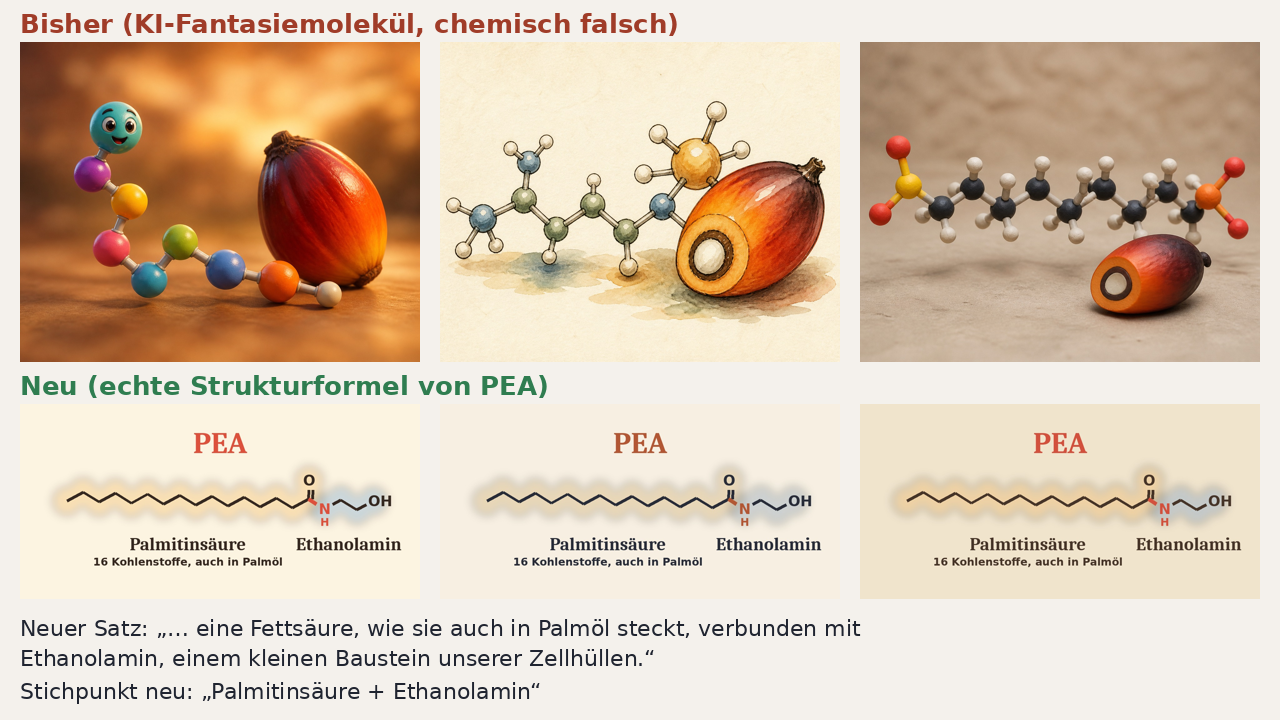
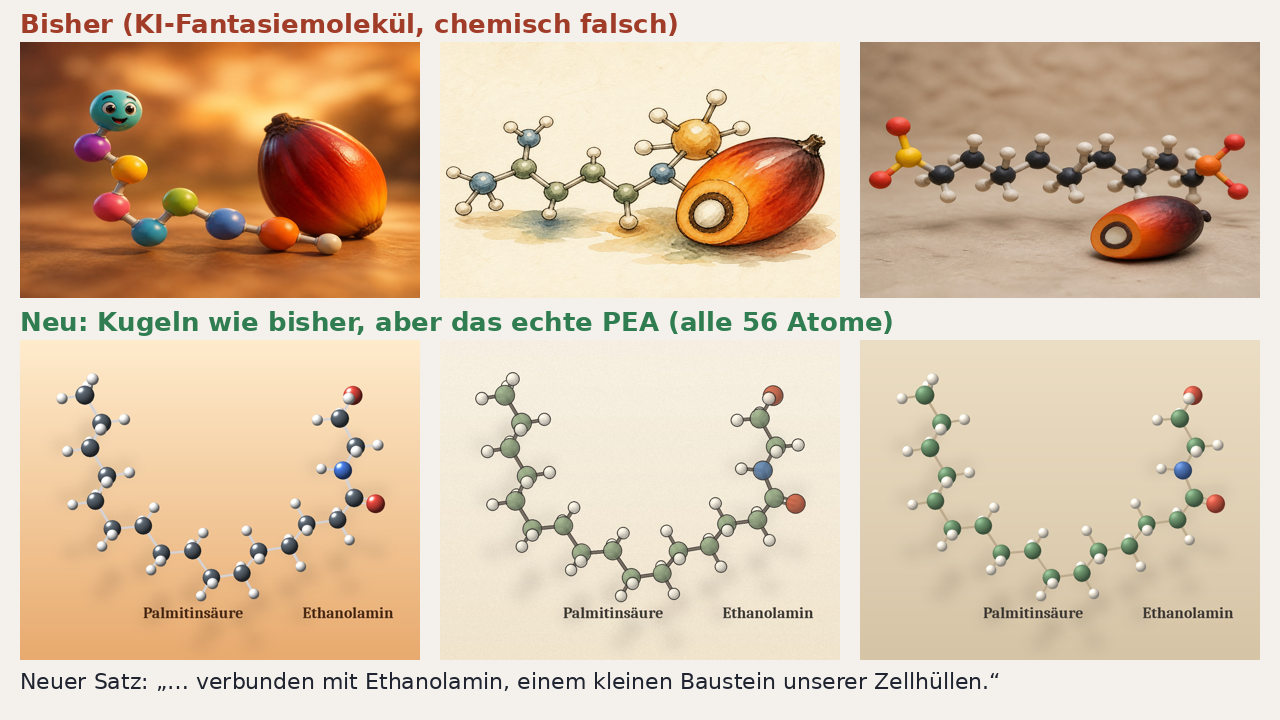
PEA: Kugel-Stab-Modell (kugeln_bau.py, echte 3D-Geometrie, U-Form) als Vorschlag für p2d
Claude-Session: https://claude.ai/code/session_01LHRCLor5LknBvfT6eafQzV

diff --git a/themen/pea/vorschau/index.html b/themen/pea/vorschau/index.html
@@ -38,12 +38,12 @@
 <main>
   <h1>PEA · Erklärvideo in drei Stilen · Vorschau</h1>
   <p class="aufgabe"><b>Deine Aufgabe:</b> Oben: Vorschlag zum Molekül im Kapitel „Der Stoff wird gefunden“ (1:21). „passt“ = Bild und Satz so ändern, dann rendere ich alle drei Stile neu. Ton kommt beim Antippen von ▶; nichts wird heruntergeladen.</p>
-  <article class="video" id="v1" data-id="v_7eebedb9b2" data-titel="Molekül-Bild 1:21: bisher und neu (Standbild)">
-      <div class="kopfzeile"><h2>Molekül-Bild 1:21: bisher und neu (Standbild)</h2><span class="marke pruefen">zu prüfen</span></div>
-      <p class="stand">Stand 11.11., 18:55 · 0.3 MB</p>
-      <video controls playsinline preload="metadata" poster="videos/v_7eebedb9b2.jpg" src="videos/v_7eebedb9b2.mp4"></video>
-      <p class="notiz">Deine Frage „Was für ein Baustein?“: Es ist Ethanolamin. PEA = Palmitinsäure (16 Kohlenstoffe) + Ethanolamin, verbunden über eine Amidbindung (rot). Die bisherigen KI-Bilder sind chemisch falsch (zu kurze Kette, drei Stickstoffe statt einem). Neu: echte Strukturformel, selbst gezeichnet. Dazu der Satz mit „Ethanolamin, einem kleinen Baustein unserer Zellhüllen“ (nur dieser Satz wird neu gesprochen und eingesetzt, wie bei der Pause nach „Spur“).</p>
-      <div class="urteil"><button type="button" data-u="passt">✓ passt</button><button type="button" data-u="aendern">ändern</button></div><textarea rows="2" placeholder="Was soll anders werden?" aria-label="Notiz zu Molekül-Bild 1:21: bisher und neu (Standbild)"></textarea><div class="zeile"><button type="button" class="senden">An Claude</button><span class="melde" role="status" aria-live="polite"></span></div>
+  <article class="video" id="v1" data-id="v_979286957e" data-titel="Molekül-Bild 1:21: bisher und neu mit Kugeln (Standbild)">
+      <div class="kopfzeile"><h2>Molekül-Bild 1:21: bisher und neu mit Kugeln (Standbild)</h2><span class="marke pruefen">zu prüfen</span></div>
+      <p class="stand">Stand 11.11., 19:20 · 0.3 MB</p>
+      <video controls playsinline preload="metadata" poster="videos/v_979286957e.jpg" src="videos/v_979286957e.mp4"></video>
+      <p class="notiz">Nach deiner Notiz: Kugeln und Stäbchen wie im alten Bild, ohne Palmfrucht, aber chemisch richtig. Echte 3D-Geometrie mit allen 56 Atomen: 16 Kohlenstoffe der Palmitinsäure (links), rot das Sauerstoff-Doppel, blau der eine Stickstoff, dann das Ethanolamin mit OH (oben rechts). Die Kette ist im Bild zum U gebogen, damit die Kugeln groß werden; das darf sie, sie ist in Wirklichkeit beweglich. Dazu der Satz mit „Ethanolamin, einem kleinen Baustein unserer Zellhüllen“. „passt“ = so einbauen.</p>
+      <div class="urteil"><button type="button" data-u="passt">✓ passt</button><button type="button" data-u="aendern">ändern</button></div><textarea rows="2" placeholder="Was soll anders werden?" aria-label="Notiz zu Molekül-Bild 1:21: bisher und neu mit Kugeln (Standbild)"></textarea><div class="zeile"><button type="button" class="senden">An Claude</button><span class="melde" role="status" aria-live="polite"></span></div>
     </article><article class="video" id="v2" data-id="v_89fd124051" data-titel="I  3D-Trickfilm">
       <div class="kopfzeile"><h2>I  3D-Trickfilm</h2><span class="marke info">zur Info</span></div>
       <p class="stand">Stand 10.11., 01:05 · 15.4 MB</p>

diff --git a/themen/pea/kugeln_bau.py b/themen/pea/kugeln_bau.py
@@ -1,0 +1,110 @@
+"""PEA als Kugel-Stab-Modell (Nutzerwunsch 11.11.: Kugeln wie im alten Bild, aber chemisch richtig, ohne Palmfrucht).
+Echte 3D-Geometrie (RDKit, Kette gestreckt), alle 56 Atome (18 C, 37 H, 1 N, 2 O), Kugeln je Stil schattiert.
+Ausgabe: molekuel/p2d_kugeln_<Stil>.jpg (1280x1024). Aufruf: python3 kugeln_bau.py"""
+import os, math, random
+import numpy as np
+from rdkit import Chem
+from rdkit.Chem import AllChem, rdMolTransforms as T
+from PIL import Image, ImageDraw, ImageFilter, ImageFont
+HIER = os.path.dirname(os.path.abspath(__file__))
+m = Chem.AddHs(Chem.MolFromSmiles('CCCCCCCCCCCCCCCC(=O)NCCO'))
+AllChem.EmbedMolecule(m, randomSeed=7); AllChem.MMFFOptimizeMolecule(m)
+c = m.GetConformer()
+kette = [0, 1, 2, 3, 4, 5, 6, 7, 8, 9, 10, 11, 12, 13, 14, 15, 17, 18, 19, 20]   # C1..C16, N, C, C, O
+KNICK = {int(k): float(v) for k, v in (x.split(':') for x in os.environ.get('KNICK', '3:65,8:-65,13:65').split(',') if x)}
+for k in range(len(kette) - 3):
+    a, b, cc, d = kette[k:k + 4]
+    T.SetDihedralDeg(c, a, b, cc, d, KNICK.get(k, 180.0))                         # gestreckt, an wenigen Stellen gedreht (Kette ist beweglich)
+X = np.array([list(c.GetAtomPosition(i)) for i in range(m.GetNumAtoms())])
+X -= X.mean(0)
+u, s, vt = np.linalg.svd(X[[i for i in range(m.GetNumAtoms()) if m.GetAtomWithIdx(i).GetSymbol() != 'H']], full_matrices=False)
+X = X @ vt.T                                                                       # Hauptachse = x
+def rot(X, ax, deg):
+    t = math.radians(deg); cs, sn = math.cos(t), math.sin(t)
+    R = {'x': [[1, 0, 0], [0, cs, -sn], [0, sn, cs]], 'y': [[cs, 0, sn], [0, 1, 0], [-sn, 0, cs]], 'z': [[cs, -sn, 0], [sn, cs, 0], [0, 0, 1]]}[ax]
+    return X @ np.array(R).T
+X = rot(X, 'x', float(os.environ.get('RX', 15)))          # Zickzack sichtbar machen, H oben/unten und vorn/hinten
+X = rot(X, 'z', float(os.environ.get('RZ', 0)))          # leicht schräg, nutzt die Bildhöhe
+if X[20, 0] < X[0, 0]: X[:, 0] *= -1                                               # Ethanolamin rechts
+W, H = 1280, 1024
+xs, ys = X[:, 0], X[:, 1]
+sk = min((W - 220) / (xs.max() - xs.min()), (H - 330) / (ys.max() - ys.min()))
+P = [((x - (xs.max() + xs.min()) / 2) * sk + W / 2, -(y - (ys.max() + ys.min()) / 2) * sk + H / 2 - 40, z) for x, y, z in X]
+R = {'C': 0.42, 'N': 0.42, 'O': 0.42, 'H': 0.26}
+STIL_ALLE = {  # Grund oben, Grund unten, C, N, O, H, Stab, Umriss
+ 'G': ((247, 240, 226), (240, 228, 205), (150, 168, 132), (96, 130, 168), (196, 98, 70), (242, 236, 222), (120, 110, 100), (60, 56, 52)),
+ 'I': ((255, 236, 205), (232, 170, 110), (90, 100, 110), (70, 120, 220), (225, 70, 60), (250, 250, 250), (210, 210, 215), None),
+ 'D': ((236, 222, 196), (214, 196, 166), (110, 150, 110), (80, 120, 190), (215, 90, 70), (248, 240, 225), (190, 170, 140), None),
+}
+STIL = {k: v for k, v in STIL_ALLE.items() if k in os.environ.get('NUR_STIL', 'GID')}
+def kugel(r, farbe, stil):
+    n = int(2 * r) + 4; im = Image.new('RGBA', (n, n), (0, 0, 0, 0)); px = im.load()
+    for yy in range(n):
+        for xx in range(n):
+            dx, dy = (xx - n / 2) / r, (yy - n / 2) / r; q = dx * dx + dy * dy
+            if q > 1: continue
+            dz = math.sqrt(1 - q)
+            l = max(0, (-0.45 * dx - 0.55 * dy + 0.7 * dz))                       # Licht von links oben
+            if stil == 'I':
+                f = 0.35 + 0.75 * l; sp = max(0, l) ** 28 * 1.2
+            elif stil == 'D':
+                f = 0.55 + 0.5 * l + random.uniform(-0.03, 0.03); sp = max(0, l) ** 10 * 0.18
+            else:
+                f = 0.72 + 0.35 * l; sp = 0
+            col = [min(255, int(ch * f + 255 * sp)) for ch in farbe]
+            a = 255 if stil != 'G' else int(235 * min(1, (1 - q) * 6 + 0.55))
+            px[xx, yy] = tuple(col) + (a,)
+    return im
+for stil, (g1, g2, cC, cN, cO, cH, stab, umriss) in STIL.items():
+    random.seed(1)
+    bg = Image.new('RGB', (W, H)); d = ImageDraw.Draw(bg)
+    for y in range(H):
+        t = y / H; d.line((0, y, W, y), fill=tuple(int(g1[i] * (1 - t) + g2[i] * t) for i in range(3)))
+    if stil == 'G':  # Papier: feines Rauschen
+        no = (np.random.default_rng(3).normal(0, 6, (H, W, 1))).astype(np.int16)
+        bg = Image.fromarray(np.clip(np.array(bg).astype(np.int16) + no, 0, 255).astype(np.uint8))
+    im = bg.convert('RGBA')
+    # weicher Schatten unter dem Molekül
+    sch = Image.new('RGBA', (W, H), (0, 0, 0, 0)); sd = ImageDraw.Draw(sch)
+    for x, y, z in P:
+        sd.ellipse((x - 30, y + 150 - 14, x + 30, y + 150 + 14), fill=(60, 40, 20, 40))
+    im = Image.alpha_composite(im, sch.filter(ImageFilter.GaussianBlur(22)))
+    # Stäbe und Kugeln nach Tiefe sortiert zeichnen
+    teile = []
+    for b in m.GetBonds():
+        i, j = b.GetBeginAtomIdx(), b.GetEndAtomIdx(); teile.append((min(P[i][2], P[j][2]) - 0.5, 'b', i, j, b.GetBondTypeAsDouble()))
+    for i, at in enumerate(m.GetAtoms()):
+        teile.append((P[i][2], 'a', i, at.GetSymbol(), 0))
+    teile.sort(key=lambda t: t[0])
+    d = ImageDraw.Draw(im)
+    farbe = {'C': cC, 'N': cN, 'O': cO, 'H': cH}
+    cache = {}
+    for z, art, i, j, typ in teile:
+        if art == 'b':
+            (x1, y1, _), (x2, y2, _) = P[i], P[j]
+            if typ == 2:
+                nx, ny = -(y2 - y1), x2 - x1; L = math.hypot(nx, ny); nx, ny = nx / L * 8, ny / L * 8
+                for sgn in (1, -1):
+                    if umriss: d.line((x1 + sgn * nx, y1 + sgn * ny, x2 + sgn * nx, y2 + sgn * ny), fill=umriss, width=9)
+                    d.line((x1 + sgn * nx, y1 + sgn * ny, x2 + sgn * nx, y2 + sgn * ny), fill=stab, width=6)
+            else:
+                if umriss: d.line((x1, y1, x2, y2), fill=umriss, width=12)
+                d.line((x1, y1, x2, y2), fill=stab, width=8)
+        else:
+            sym = j; r = R[sym] * sk * (1 + 0.04 * z)
+            key = (sym, int(r))
+            if key not in cache: cache[key] = kugel(r, farbe[sym], stil)
+            k = cache[key]; x, y, _ = P[i]
+            if umriss:
+                d.ellipse((x - r - 2, y - r - 2, x + r + 2, y + r + 2), outline=umriss, width=3)
+            im.alpha_composite(k, (int(x - k.width / 2), int(y - k.height / 2)))
+            d = ImageDraw.Draw(im)
+    # dezente Beschriftung unten: welcher Teil ist was
+    f = ImageFont.truetype('/usr/share/fonts/truetype/crosextra/Caladea-Bold.ttf', 50)
+    tinte = (60, 56, 52) if stil != 'I' else (70, 40, 20)
+    xa = sum(P[i][0] for i in range(16)) / 16; xb = min(sum(P[i][0] for i in (17, 18, 19, 20)) / 4, W - 170)
+    yu = H - 150
+    d.text((xa, yu), 'Palmitinsäure', font=f, fill=tinte, anchor='mm')
+    d.text((xb, yu), 'Ethanolamin', font=f, fill=tinte, anchor='mm')
+    im.convert('RGB').save(os.path.join(HIER, 'molekuel', f'p2d_kugeln_{stil}' + os.environ.get('SUFFIX', '') + '.jpg'), quality=92)
+    print(stil)
